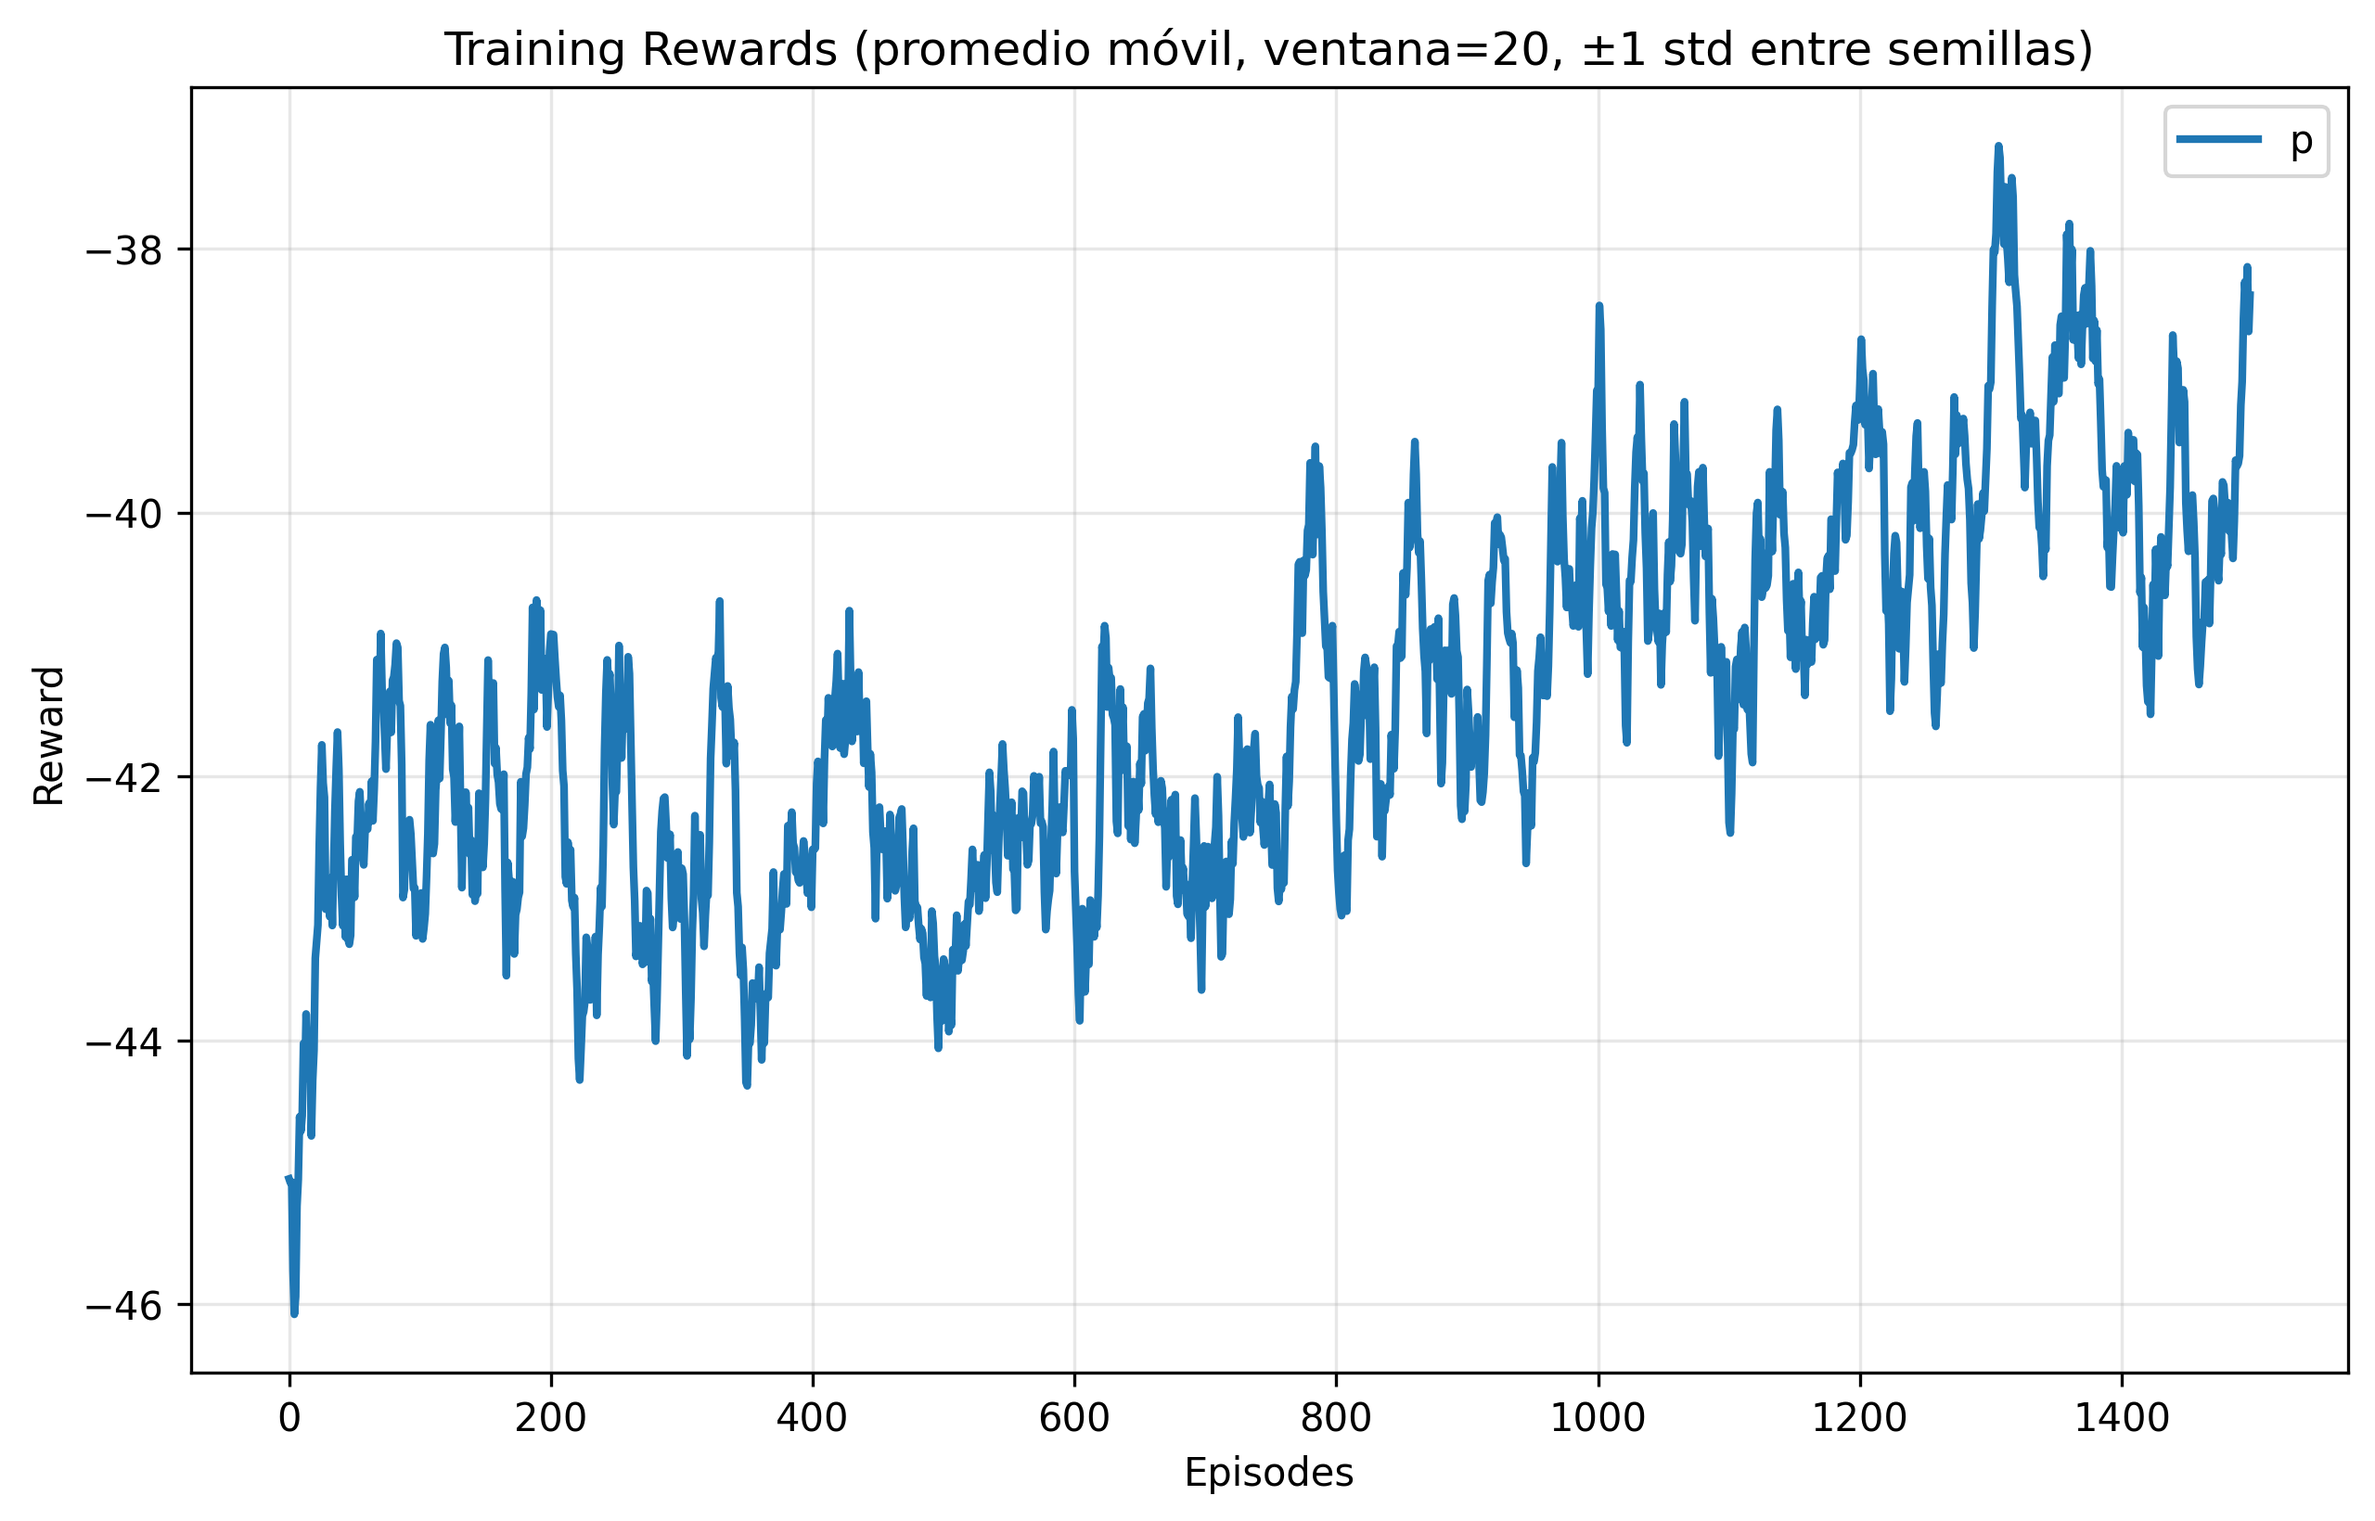
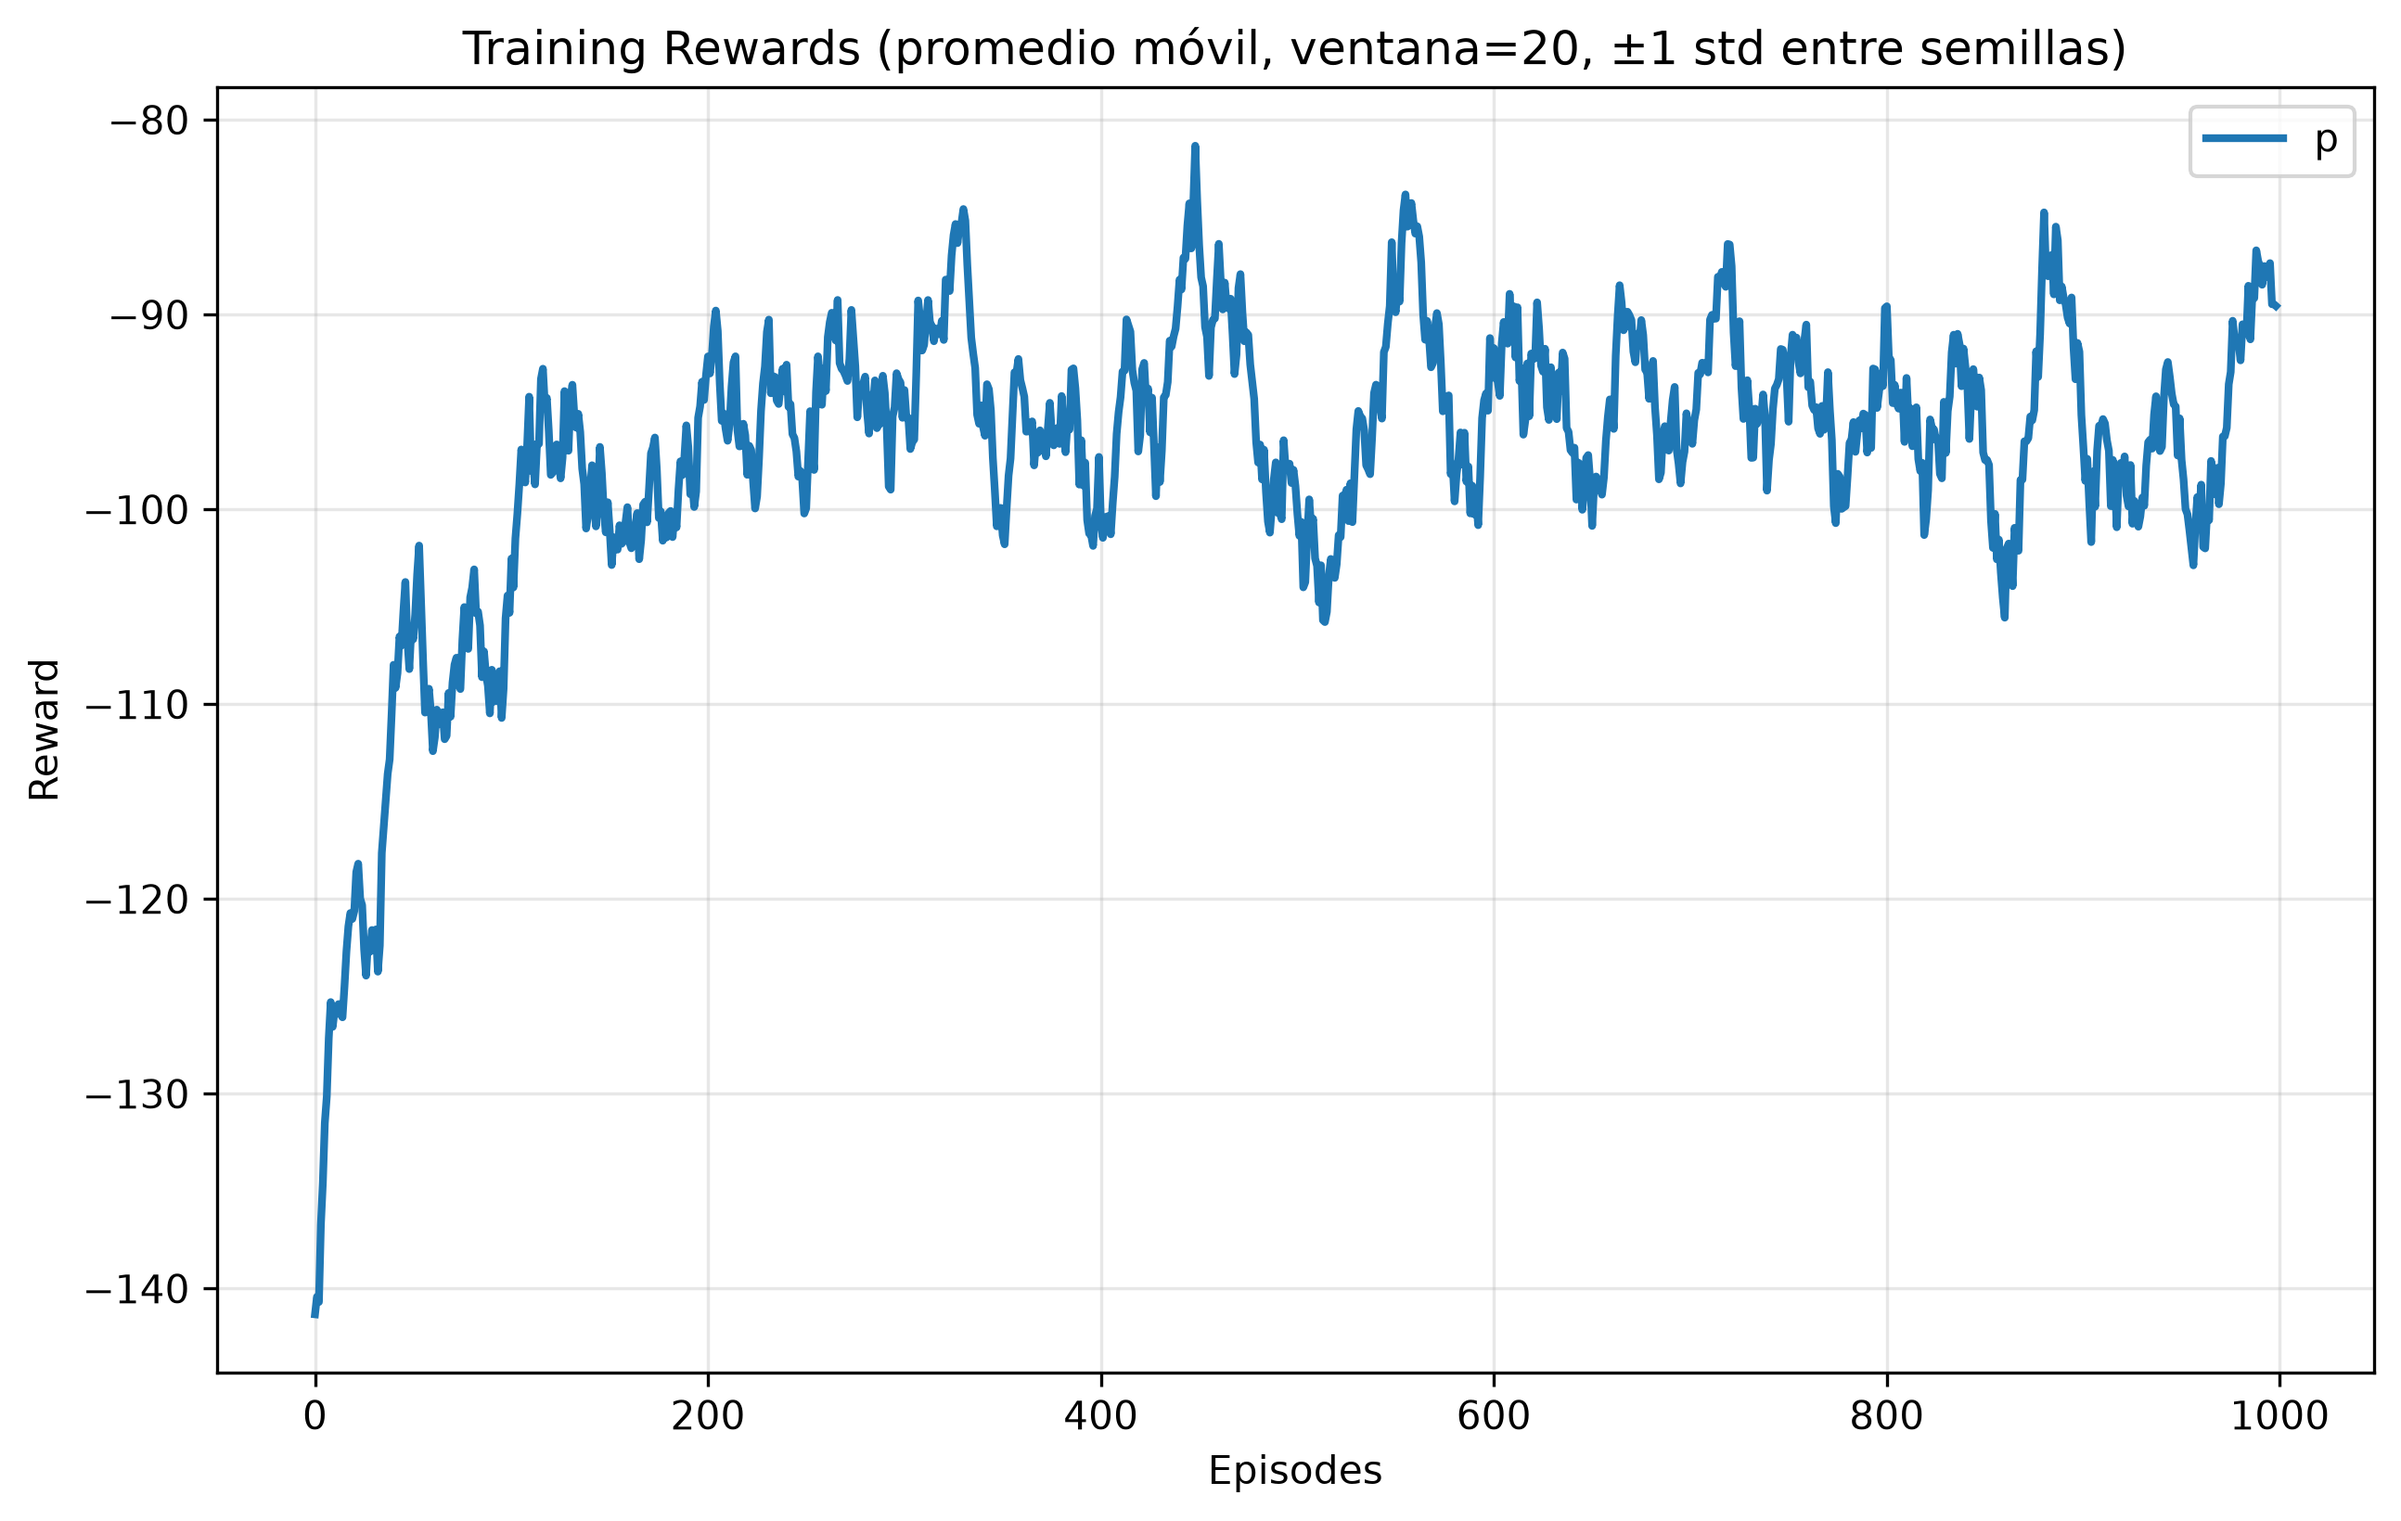
experimento con REINFORCE

diff --git a/traci_custom_env/REINFORCE/main_REINFORCE.py b/traci_custom_env/REINFORCE/main_REINFORCE.py
@@ -5,10 +5,8 @@ sys.path.append(os.path.dirname(os.path.dirname(os.path.abspath(__file__))))
 
 from sumo_rl_env import SumoEnv
 import numpy as np
-from funciones import train_episode_td, save_experiment, init_theta, training
+from funciones import generate_episode, save_experiment, init_theta, training
 import random
-
-actions = list(range(0,8))
 
 import yaml
 with open("config.yaml", "r") as f:
@@ -17,11 +15,7 @@ with open("config.yaml", "r") as f:
 gamma = config["gamma"]
 episodes = config["episodes"]
 num_seconds = config["num_seconds"]
-epsilon_min = config["epsilon"]["min"]
-epsilon_decay = config["epsilon"]["decay"]
-epsilon_update_interval = config["epsilon_update_interval"]
 delta_time = config["delta_time"]
-method = config["method"]
 master_seed = config["master_seed"]
 num_trainings = config["num_trainings"]
 alpha = config["alpha"]
@@ -37,20 +31,14 @@ seeds = random.sample(range(1, 100000),num_trainings)
 all_training_rewards = []
 
 best_reward = -np.inf
-best_Q = None
-
-from collections import defaultdict
+best_theta = None
 
 for seed in seeds:
-    epsilon = config["epsilon"]["start"]
     random.seed(seed)
     np.random.seed(seed)
 
     # List to save the total reward of every episode on each training
     training_rewards  = []
-
-    # Q(s,a) Values
-    Q = defaultdict(float) 
 
     # creation of environment
     env = SumoEnv(
@@ -62,7 +50,7 @@ for seed in seeds:
     )
 
     # initail theta
-    theta = init_theta(len(actions), 9)
+    theta = init_theta(env.action_space_n, env.observation_space_shape[0])
 
     for episode in range(episodes):
 
@@ -76,7 +64,7 @@ for seed in seeds:
         initial_state = obs
 
         # ===== GENERATE EPISODE =====
-        episode, episode_reward = train_episode_td(env, theta, initial_state, actions, gamma, alpha)
+        episode, episode_reward = generate_episode(env, theta, initial_state)
         
         # ===== TRAINING =============
         theta = training(episode, theta, gamma, alpha)
@@ -87,10 +75,10 @@ for seed in seeds:
     # gets the mean of final rewards of all episodes on training i      
     mean_training_reward = np.mean(training_rewards[-50:])
     
-    # select the best mean an best Q
+    # select the best mean an best theta
     if mean_training_reward > best_reward:
         best_reward = mean_training_reward
-        best_Q = Q.copy()
+        best_theta = theta.copy()
 
     # matrix that saves final rewards for each episode for each training
     all_training_rewards.append(training_rewards)
@@ -100,24 +88,10 @@ for seed in seeds:
 # mean of rewards for learning curve
 mean_all_training_rewards = np.mean(all_training_rewards, axis = 0)
 
-# create best policy
-best_policy = {}
-
-for s in states:
-    q_vals = [best_Q[(s,a)] for a in actions]
-    q_max = max(q_vals)
-
-    best_actions = [
-        act for act in actions
-        if best_Q[(s, act)] == q_max
-    ]
-
-    best_policy[s] = random.choice(best_actions)
-
 save_experiment(
     reward_history=mean_all_training_rewards,
     all_training_rewards=all_training_rewards,
-    best_policy=best_policy,
+    best_theta=best_theta,
     config=config,
     seeds=seeds
 )

diff --git a/traci_custom_env/REINFORCE/funciones.py b/traci_custom_env/REINFORCE/funciones.py
@@ -11,7 +11,7 @@ def policy(theta, x):
 
 def choose_action(theta, x):
     preferences = policy(theta, x)
-    return np.random(len(preferences), p=preferences)
+    return np.random.choice(len(preferences), p=preferences)
 
 def gradient_log_pi(theta, x, a):
     preferences = policy(theta, x)
@@ -46,14 +46,17 @@ def generate_episode (env, theta, state):
 
 def training(episode, theta, gamma, alpha):
 
+    # 1) retornos G_t, recorriendo el episodio hacia atrás
     G = 0
-    k = 0
+    returns = []
+    for (s, a, r) in reversed(episode):
+        G = r + gamma * G
+        returns.append(G)
+    returns.reverse()                  # ahora returns[t] = G_t
 
-    for t, step in enumerate(episode):
-        s, a, r = step
-        G += r * gamma**(k-t-1)
-        k += 1
-        theta += alpha * gamma**(t) * G *gradient_log_pi(theta, s, a)
+    # 2) actualización de theta, recorriendo hacia adelante
+    for t, ((s, a, r), G_t) in enumerate(zip(episode, returns)):
+        theta += alpha * gamma**t * G_t * gradient_log_pi(theta, s, a)
 
     return theta
 
@@ -67,12 +70,12 @@ import pickle
 def save_experiment(
     reward_history,
     all_training_rewards,
-    best_policy,
+    best_theta,
     config,
     seeds,
     base_dir="experiments"
 ):
-    method = config["method"]
+    method = "REINFORCE"
 
     # ===== CURRENT DATE/TIME =====
     timestamp = datetime.now().strftime("%Y-%m-%d_%H-%M-%S")
@@ -142,14 +145,14 @@ def save_experiment(
     # ================= SAVE DATA ======================
     # =========================================================
 
-    # Save policy
-    policy_path = os.path.join(
+    # Save theta
+    theta_path = os.path.join(
         save_dir,
-        f"best_policy_{timestamp}.pkl"
+        f"best_theta_{timestamp}.pkl"
     )
 
-    with open(policy_path, "wb") as f:
-        pickle.dump(best_policy, f)
+    with open(theta_path, "wb") as f:
+        pickle.dump(best_theta, f)
 
     # Save data of all trainnings
     all_training_rewards_path = os.path.join(

diff --git a/traci_custom_env/learning_curves.py b/traci_custom_env/learning_curves.py
@@ -23,7 +23,7 @@ def moving_average(x, window=20):
 
 
 paths = {
-    "p": "Temporal_Difference/experiments/QL_experiment_2026-10-11_17-49-30/all_training_rewards_2026-10-11_17-49-30.pkl"
+    "p": "REINFORCE/experiments/REINFORCE_experiment_2026-10-23_13-02-52/all_training_rewards_2026-10-23_13-02-52.pkl"
 }
 
 WINDOW = 20     # más alto = más liso (pero con más "retraso" visual)
